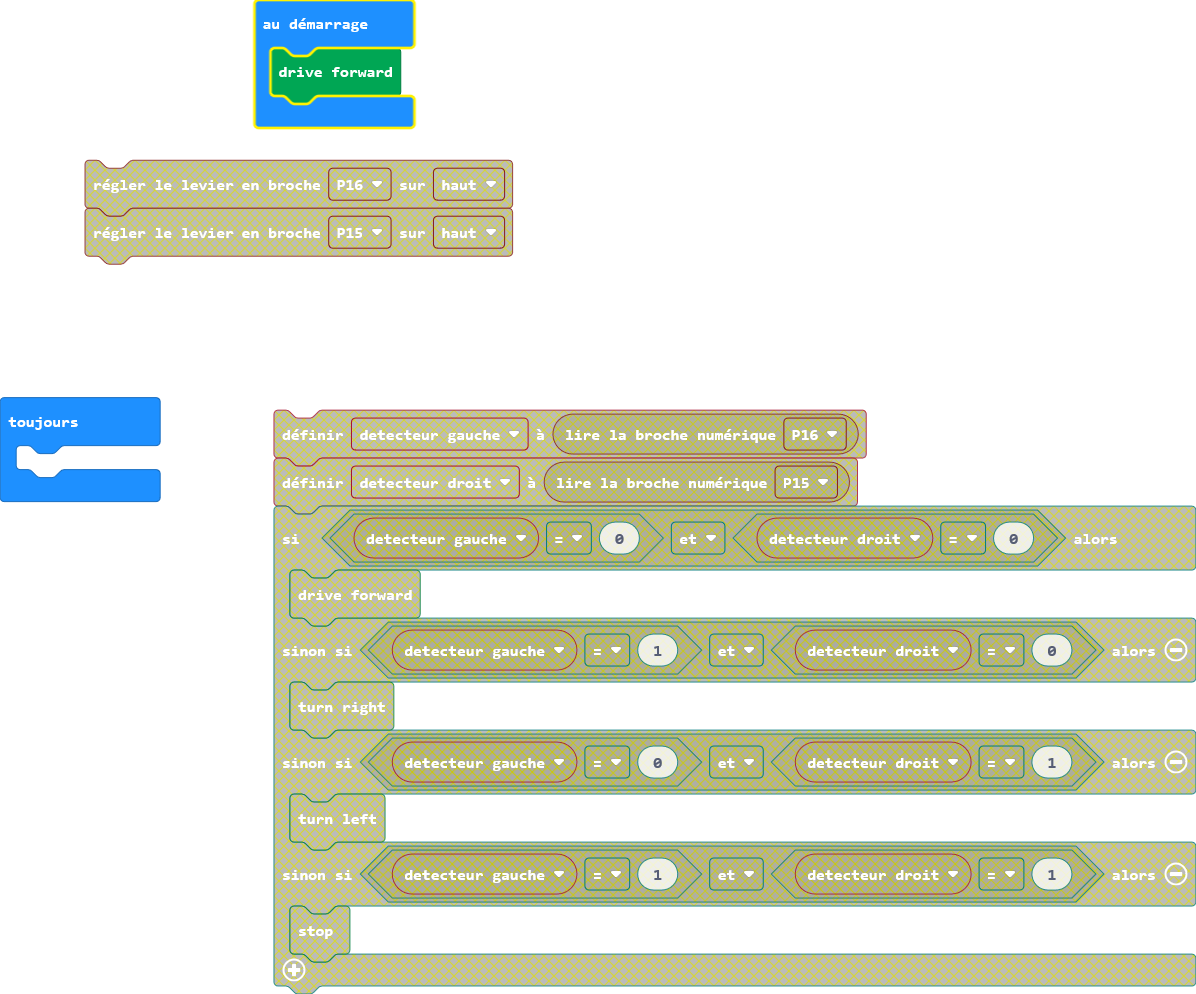
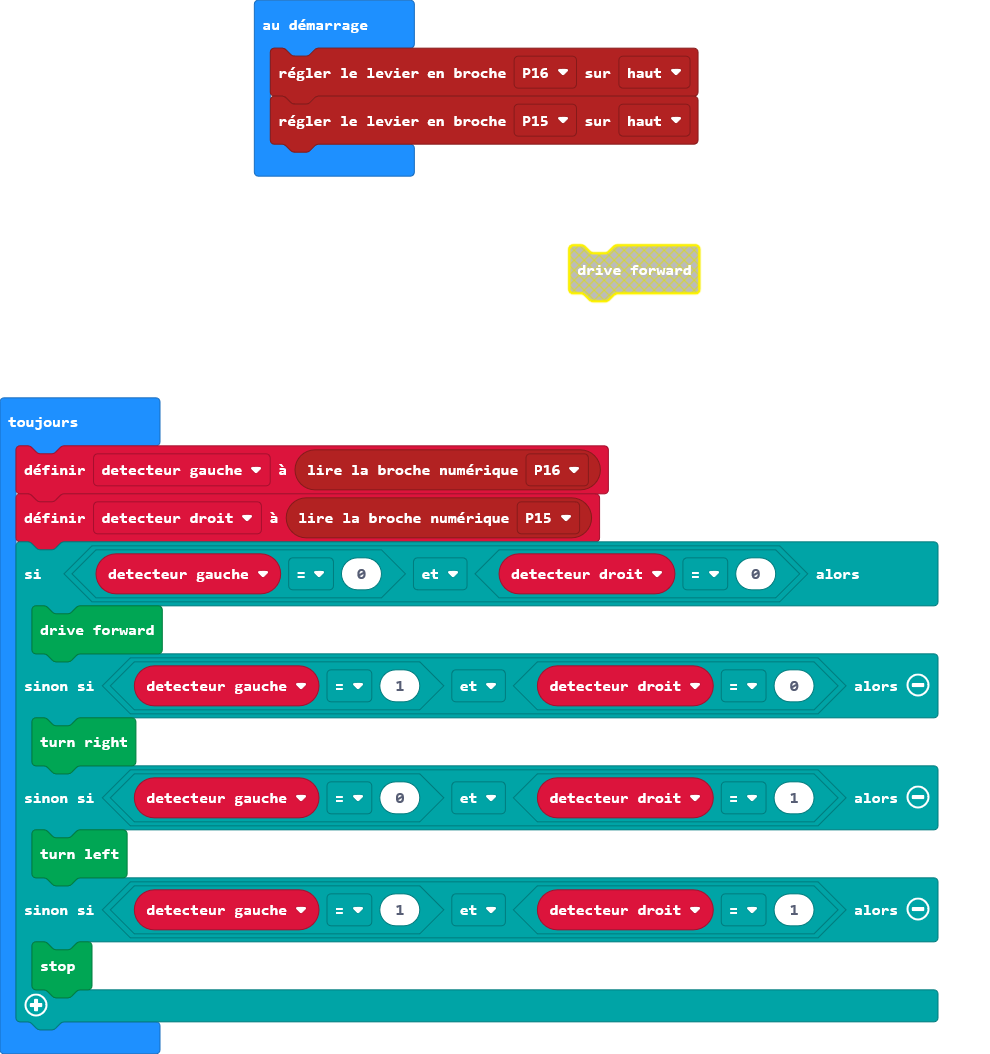
Mise à jour main.blocks, main.ts

diff --git a/main.ts b/main.ts
@@ -1,4 +1,17 @@
-kitronik_servo_lite.forward()
+let detecteur_droit = 0
+let detecteur_gauche = 0
+pins.setPull(DigitalPin.P16, PinPullMode.PullUp)
+pins.setPull(DigitalPin.P15, PinPullMode.PullUp)
 basic.forever(function () {
-	
+    detecteur_gauche = pins.digitalReadPin(DigitalPin.P16)
+    detecteur_droit = pins.digitalReadPin(DigitalPin.P15)
+    if (detecteur_gauche == 0 && detecteur_droit == 0) {
+        kitronik_servo_lite.forward()
+    } else if (detecteur_gauche == 1 && detecteur_droit == 0) {
+        kitronik_servo_lite.right()
+    } else if (detecteur_gauche == 0 && detecteur_droit == 1) {
+        kitronik_servo_lite.left()
+    } else if (detecteur_gauche == 1 && detecteur_droit == 1) {
+        kitronik_servo_lite.stop()
+    }
 })
